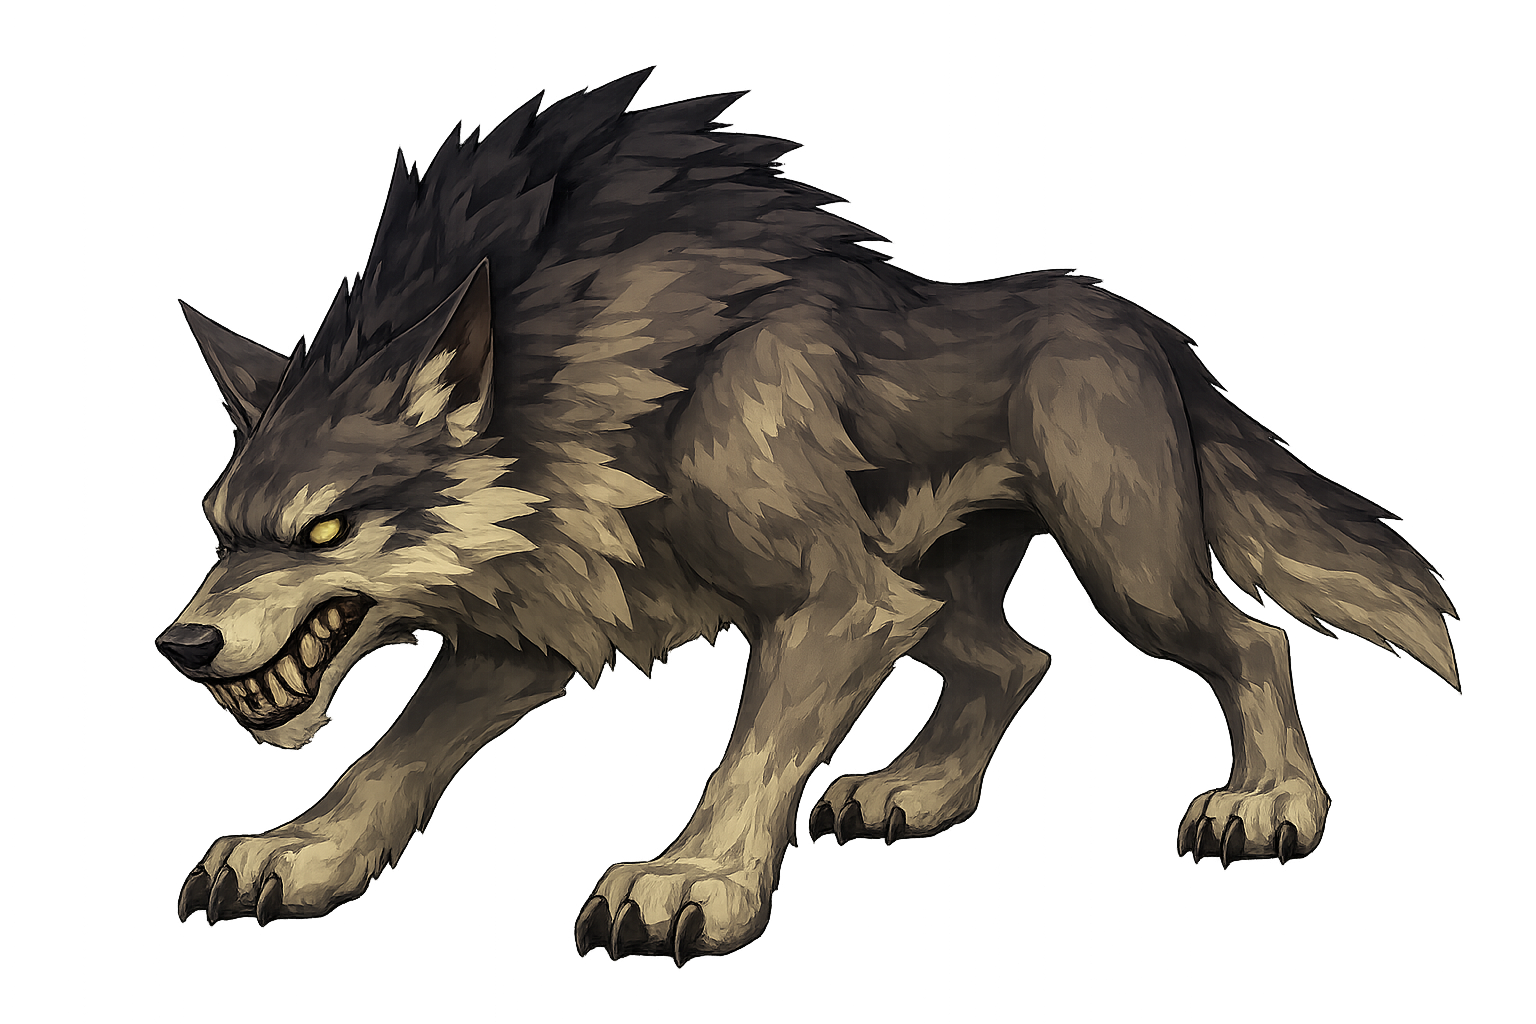
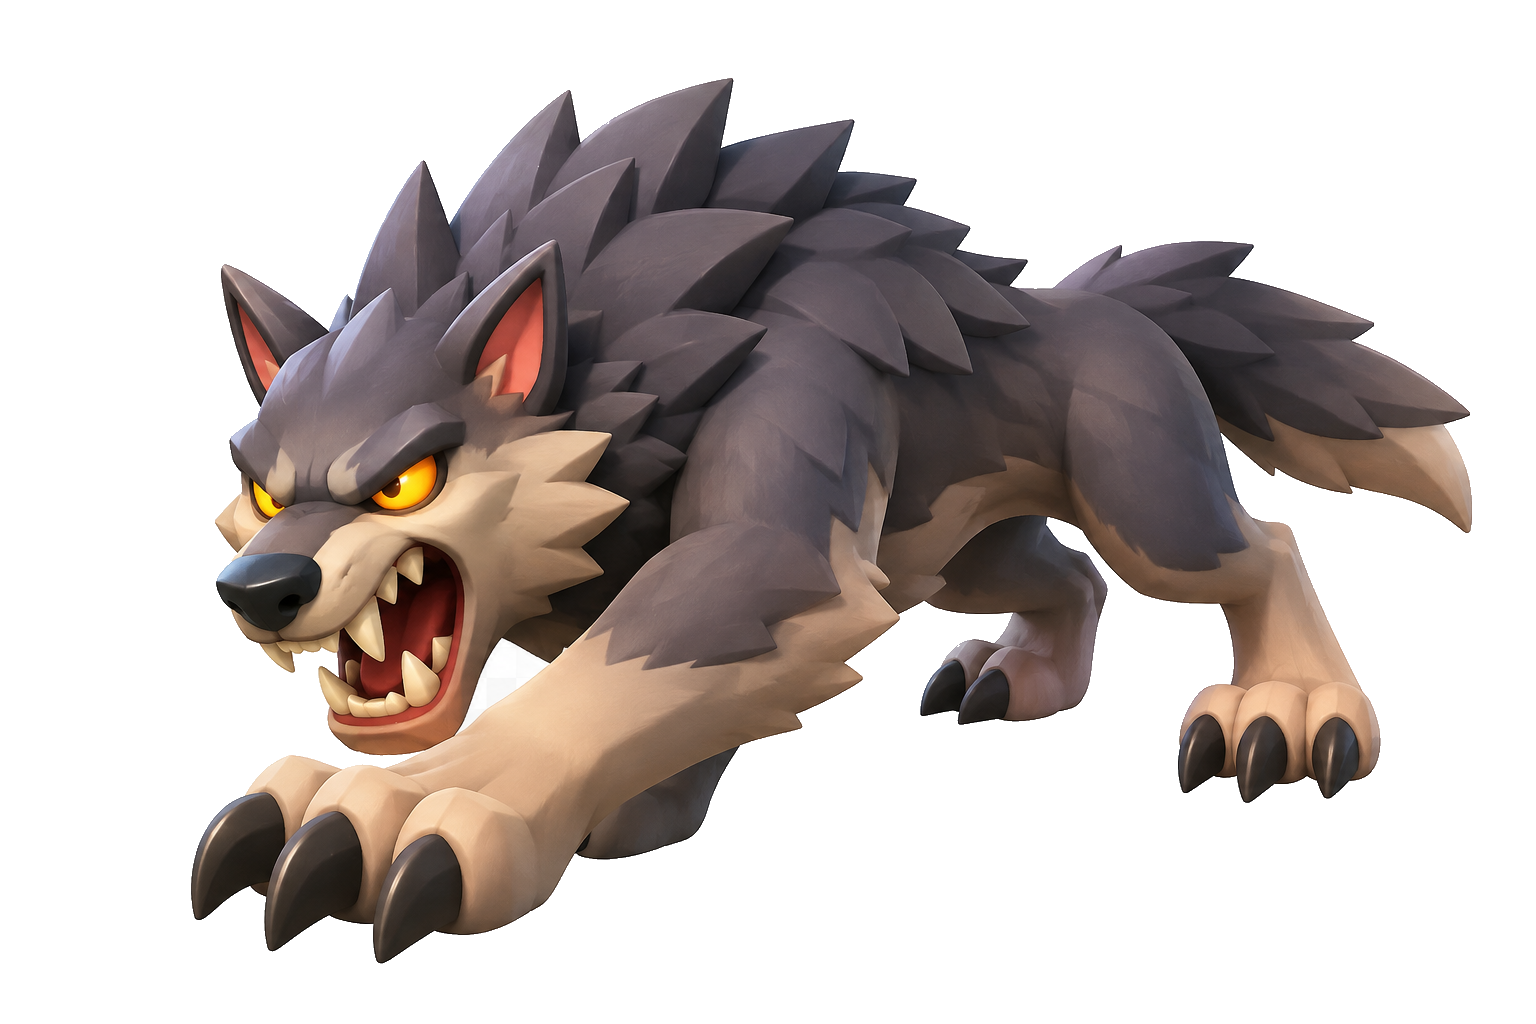
Update wolf den monster artwork

diff --git a/monster-display-policy.js b/monster-display-policy.js
@@ -9,9 +9,9 @@
     plainsSlime: 'assets/plains-slime.png?v=20260831-monster-style-v1',
     plainsGoblinYoung: 'assets/plains-goblin-young.png?v=20260831-monster-style-v1',
     lostGoblin: 'assets/lost-goblin.png?v=20260724-user-image-v1',
-    denForestWolf: 'assets/wolf-den-forest-wolf.png?v=20260725-user-image-v1',
-    ragingWolf: 'assets/wolf-den-raging-wolf.png?v=20260725-user-image-v1',
-    greatfangWolf: 'assets/wolf-den-greatfang-wolf.png?v=20260725-user-image-v1',
+    denForestWolf: 'assets/wolf-den-forest-wolf.png?v=20260831-monster-style-v1',
+    ragingWolf: 'assets/wolf-den-raging-wolf.png?v=20260831-monster-style-v1',
+    greatfangWolf: 'assets/wolf-den-greatfang-wolf.png?v=20260831-monster-style-v1',
     boarPiglet: 'assets/boar-woods-piglet.png?v=20260725-user-image-v1',
     forestBoar: 'assets/boar-woods-forest-boar.png?v=20260725-user-image-v1',
     irritableBoar: 'assets/boar-woods-irritable-boar.png?v=20260726-user-image-v1',
